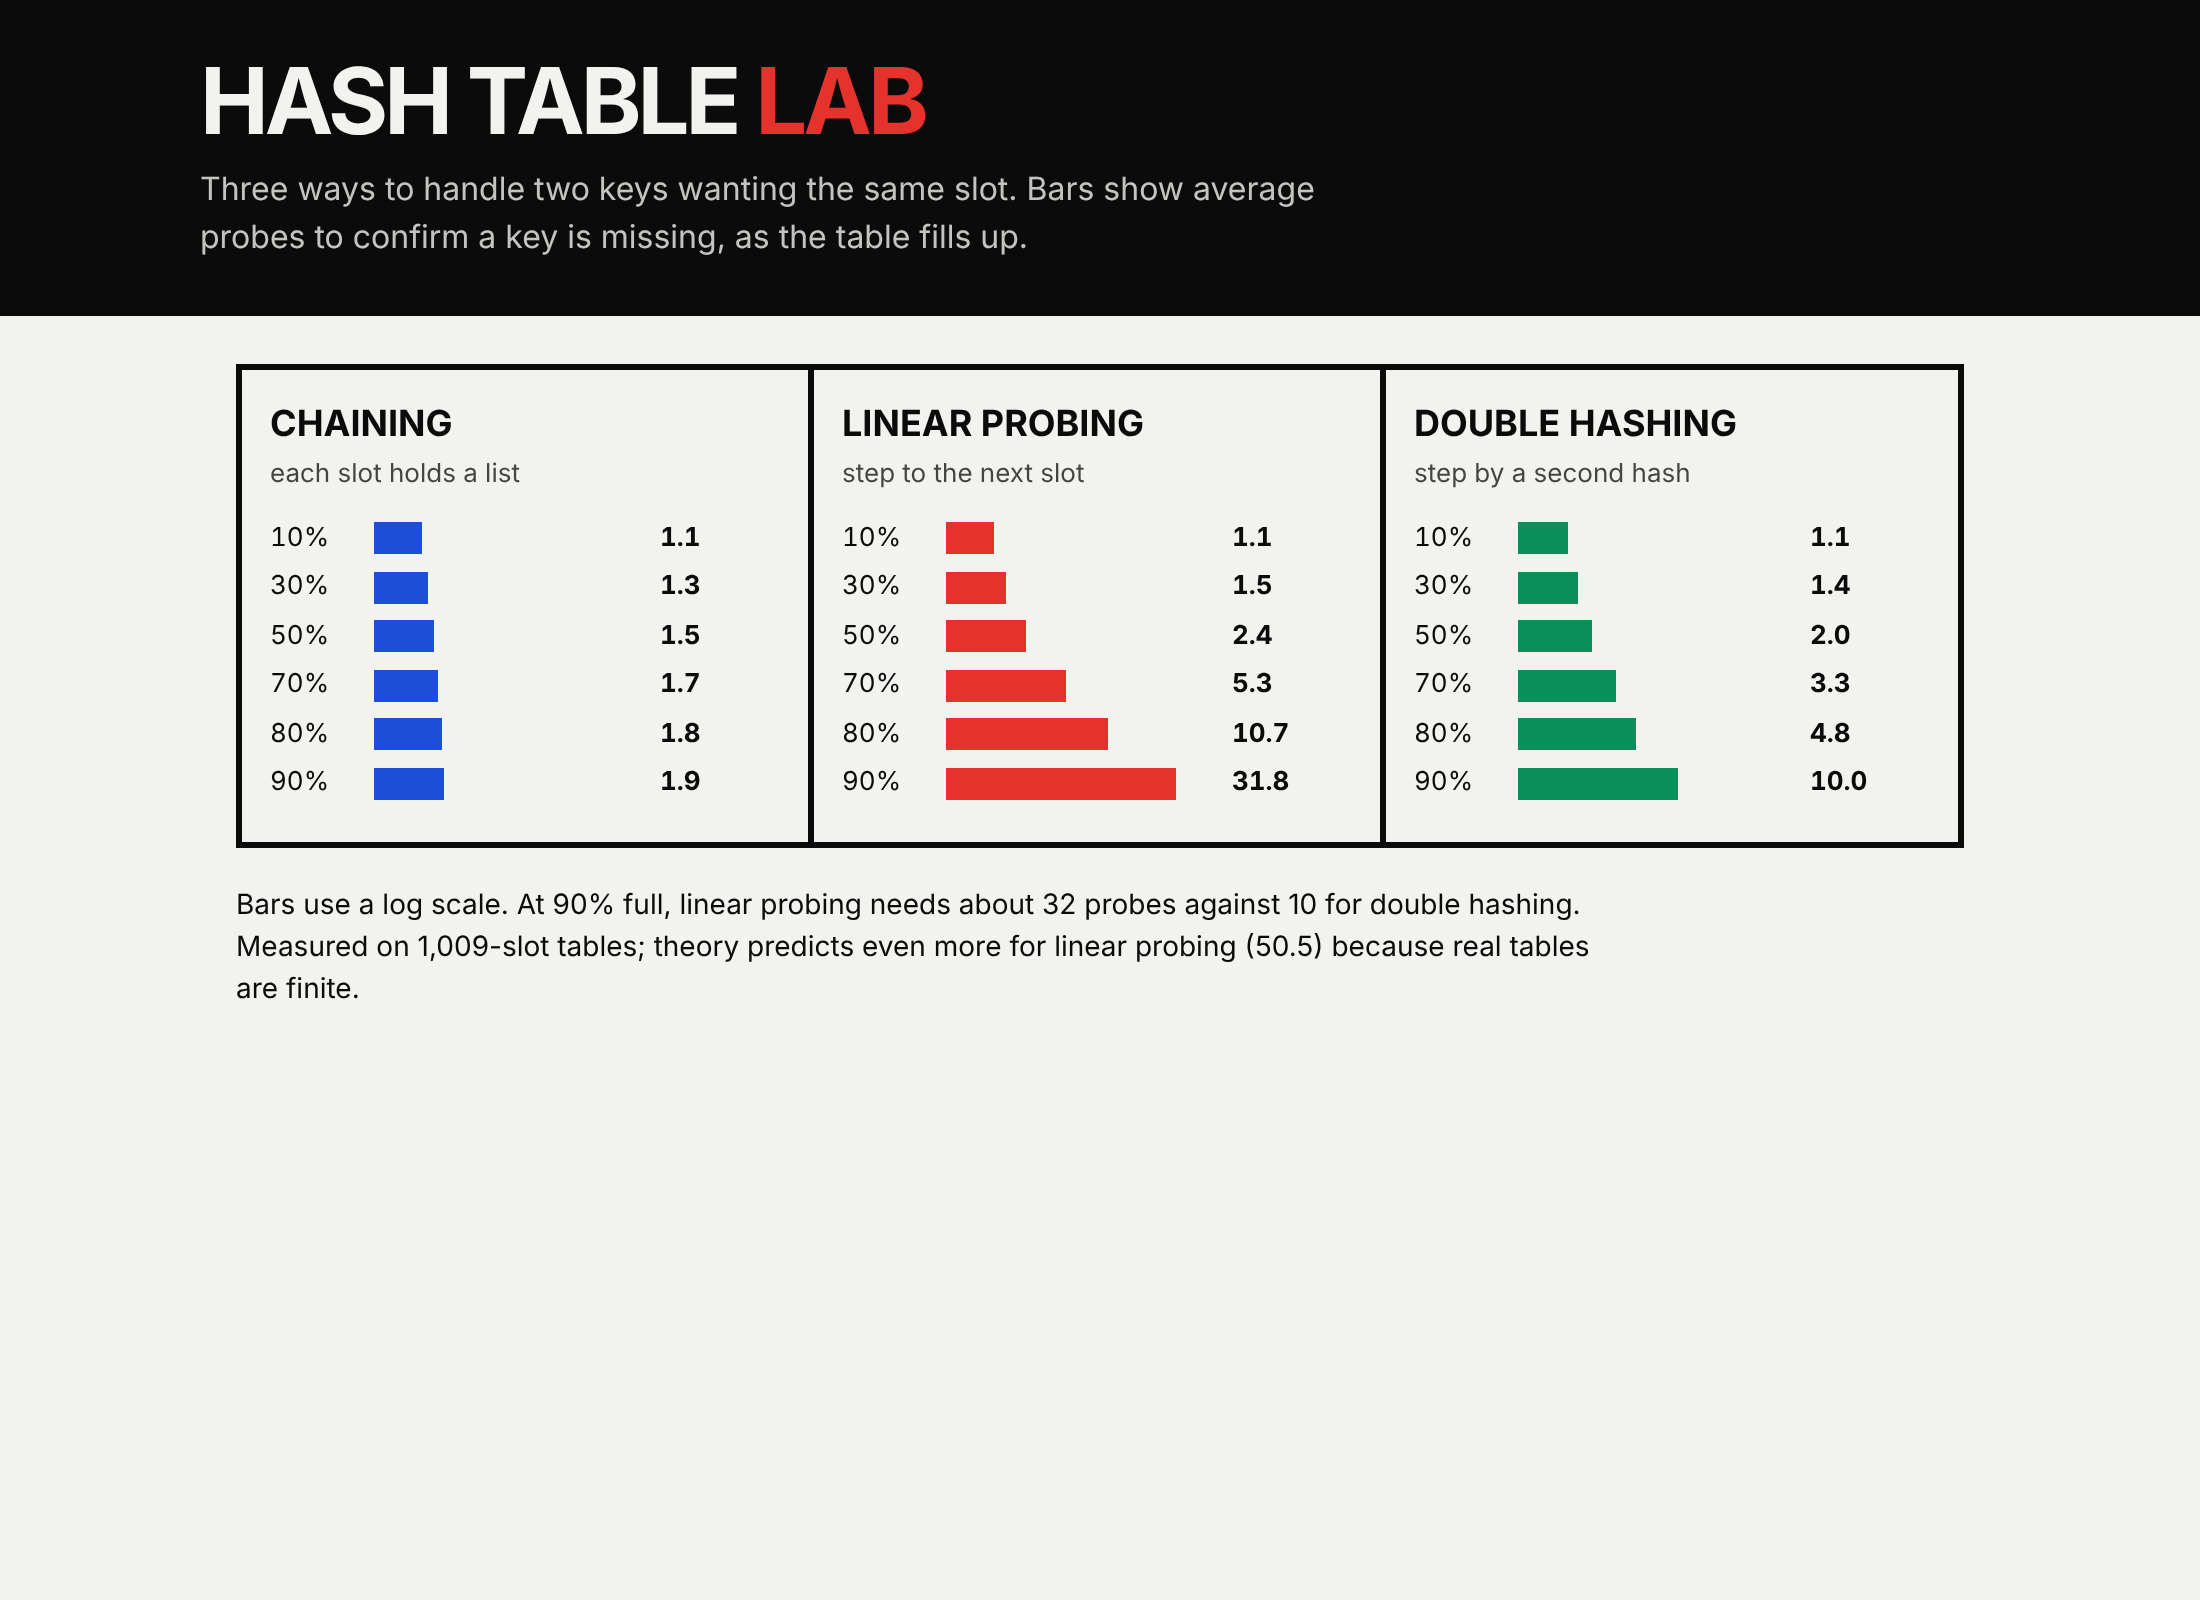
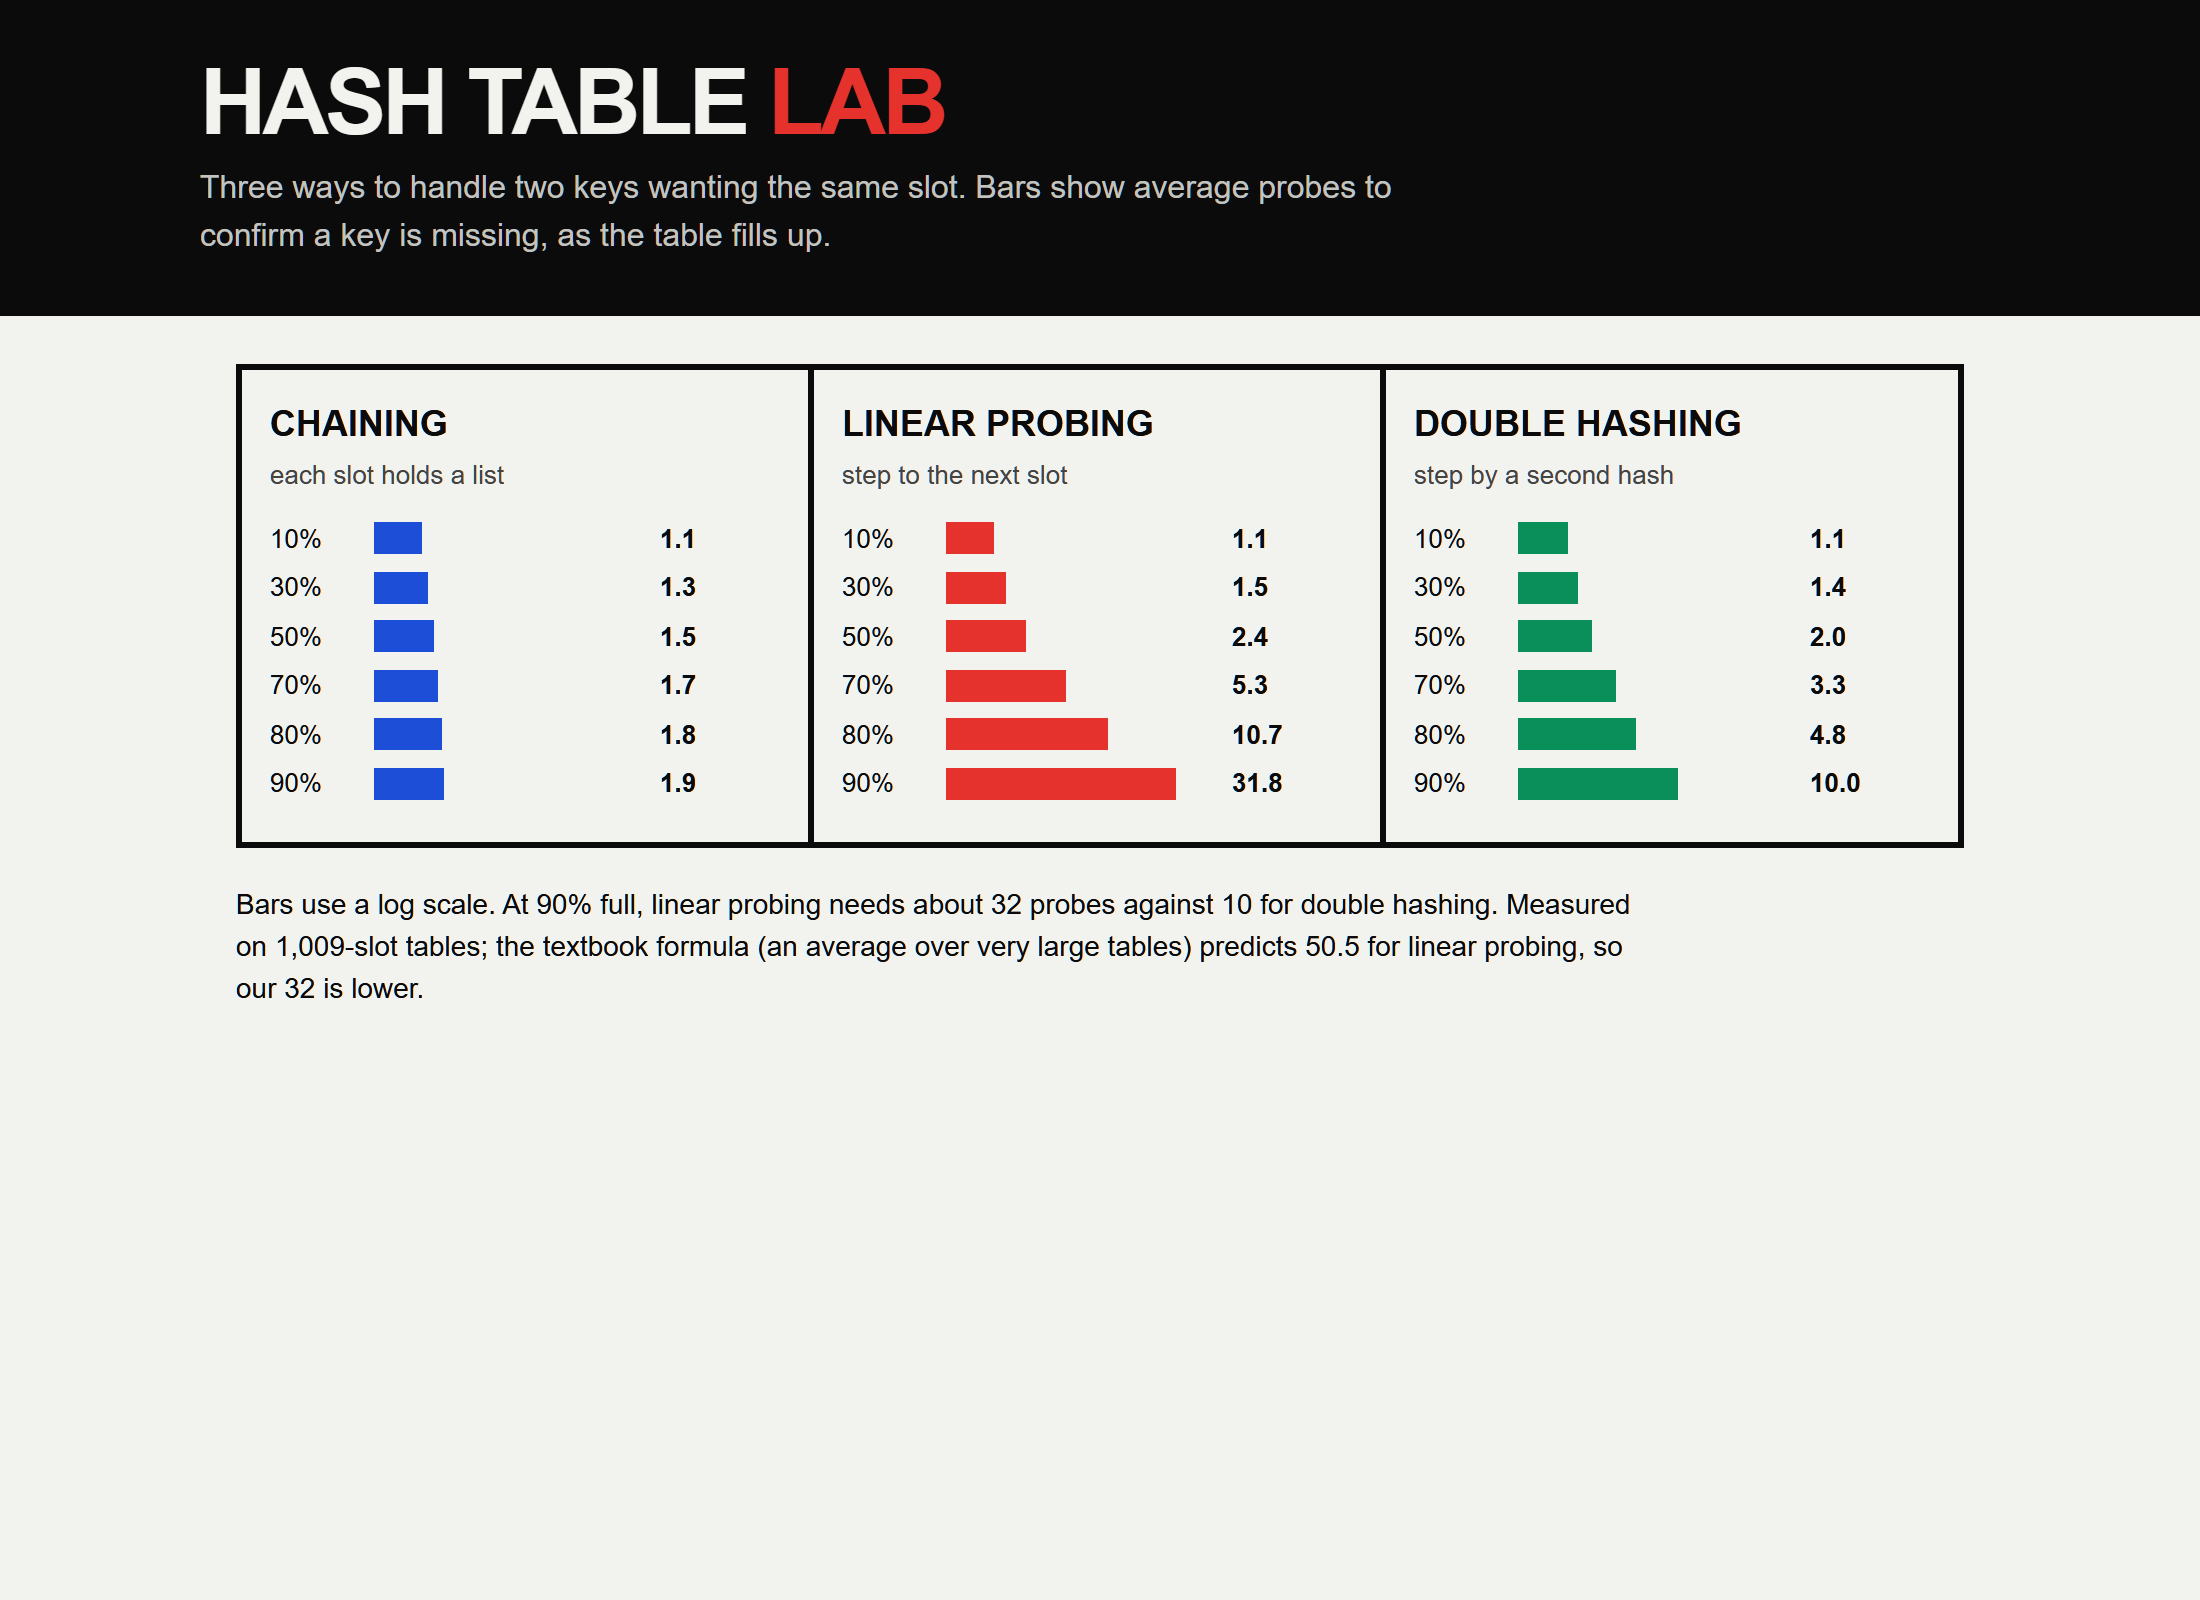
Improve hash-table-lab

diff --git a/static/index.html b/static/index.html
@@ -8,10 +8,11 @@ main{max-width:900px;margin:0 auto;padding:24px 18px}.grid{display:grid;grid-tem
 .col{padding:14px;border-right:3px solid var(--ink)}.col:last-child{border:0}.col h2{margin:0;font-size:18px;text-transform:uppercase}.col p{margin:2px 0 12px;font-size:13px;opacity:.75}
 .row{display:grid;grid-template-columns:44px 1fr 60px;gap:8px;align-items:center;margin:5px 0;font-size:13px;font-variant-numeric:tabular-nums}.bar{height:16px;background:var(--c);min-width:2px}
 .note{margin-top:18px;font-size:14px;max-width:700px}@media(max-width:700px){.grid{grid-template-columns:1fr}.col{border-right:0;border-bottom:3px solid var(--ink)}}
+@media (prefers-color-scheme: dark){:root{--bg:#111418;--ink:#ecebe6;--red:#f0605b;--blue:#60a5fa;--grn:#34d399}}
 </style></head><body><header><div><h1>Hash table <span>lab</span></h1><p>Three ways to handle two keys wanting the same slot. Bars show average probes to confirm a key is missing, as the table fills up.</p></div></header>
 <main><div class="grid" id="g"></div><p class="note" id="n"></p></main><script>
-const info={chaining:['Chaining','each slot holds a list',' #1d4ed8'],linear:['Linear probing','step to the next slot',' #e5322d'],double:['Double hashing','step by a second hash',' #0a8f5a']};
+const info={chaining:['Chaining','each slot holds a list','var(--blue)'],linear:['Linear probing','step to the next slot','var(--red)'],double:['Double hashing','step by a second hash','var(--grn)']};
 fetch('/curves').then(r=>r.json()).then(d=>{const max=Math.log(60);
 document.getElementById('g').innerHTML=Object.entries(d.curves).map(([k,v])=>`<div class="col" style="--c:${info[k][2].trim()}"><h2>${info[k][0]}</h2><p>${info[k][1]}</p>`+d.loads.map((a,i)=>`<div class="row"><span>${Math.round(a*100)}%</span><div class="bar" style="width:${Math.max(1,Math.log(1+v.measured[i])/Math.log(61)*100)}%"></div><b>${v.measured[i].toFixed(1)}</b></div>`).join('')+'</div>').join('');
-document.getElementById('n').textContent='Bars use a log scale. At 90% full, linear probing needs about '+d.curves.linear.measured[5].toFixed(0)+' probes against '+d.curves.double.measured[5].toFixed(0)+' for double hashing. Measured on 1,009-slot tables; the textbook formula (an average over very large tables) predicts 50.5 for linear probing, so our 32 is lower.'});
+document.getElementById('n').textContent='Bars use a log scale. At 90% full, linear probing needs about '+d.curves.linear.measured[5].toFixed(0)+' probes against '+d.curves.double.measured[5].toFixed(0)+' for double hashing. Measured on 1,009-slot tables; the textbook formula (an average over very large tables) predicts 50.5 for linear probing, so our 32 is lower.'}).catch(()=>{document.getElementById('n').textContent='Could not load the probe curves. Refresh to try again.';});
 </script></body></html>

diff --git a/tests/test_all.py b/tests/test_all.py
@@ -69,3 +69,11 @@ def test_api():
     assert c.get("/health").json() == {"status": "ok"}
     j = c.get("/curves").json()
     assert j["loads"][0] == 0.1 and set(j["curves"]) == set(KINDS) and c.get("/").status_code == 200
+
+
+def test_page_shows_error_message_when_curves_fail():
+    assert "Could not load the probe curves" in c.get("/").text
+
+
+def test_page_has_dark_colour_scheme():
+    assert "prefers-color-scheme: dark" in c.get("/").text
